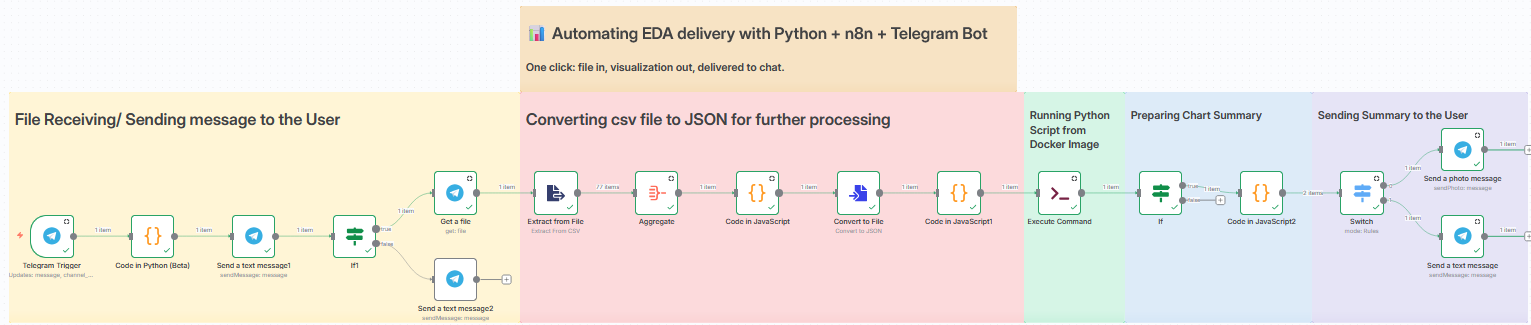
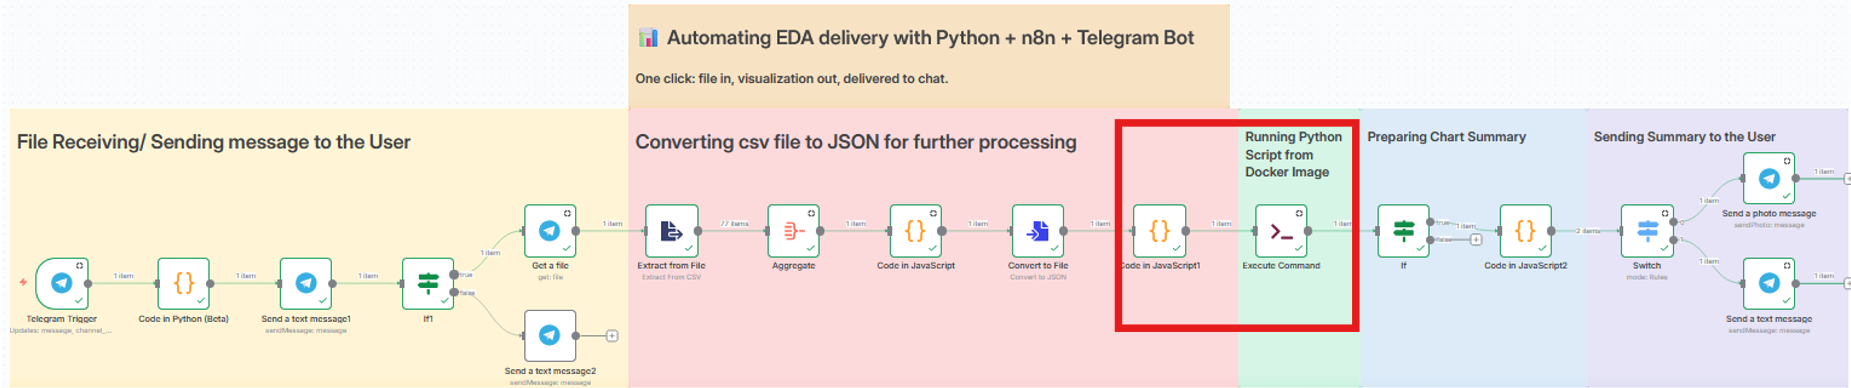
update workflow.png and readme.md

diff --git a/README.md b/README.md
@@ -53,7 +53,7 @@ Check out the workflow in action:
 https://github.com/user-attachments/assets/b51882dc-fb47-4580-90b0-0993bba4d8a9
 
 ---
-## How to create Custom Docker Image with Python Libraries for n8n ?
+## Guide on how to create Custom Docker Image with Python Libraries for n8n ?
 
 **Step 1:** Create Dockerfile. Use Dockerfile in this repo.
 
@@ -62,22 +62,24 @@ https://github.com/user-attachments/assets/b51882dc-fb47-4580-90b0-0993bba4d8a9
 **Step 3:** Watch this video, before running below code: https://www.youtube.com/watch?v=RvAD2__YYjg
 
 This video is the solution for the issue, you will encounter while running n8n via Docker. The error is "**Bad Request: bad webhook: An HTTPS URL must be provided for webhook**"
-```bash 
-docker compose up -d
-```
+   ```bash 
+   docker compose up -d
+   ```
 **Step 4:** Running Python Script in n8n.
 
- - **Step 4.1:** Add Code Node with Language selected as JavaScript, and add below code. This code will output the filepath where the JSON converted file is saved in n8n
+ - **Step 4.1:** Add "Code" Node with Language selected as JavaScript, and add below code. This code will output the filepath where the JSON converted file is saved in n8n. 
 
-```bash 
- return [{
-  filePath: `/home/node/.n8n/binaryData/${$binary.data.id.replace('filesystem-v2:', '')}`
-}];
-```
+    **Question** Where to add "Code" Node ? See Red box under Workflow Diagram.
+
+   ```bash 
+   return [{
+   filePath: `/home/node/.n8n/binaryData/${$binary.data.id.replace('filesystem-v2:', '')}`
+   }];
+   ```
  - **Step 4.2:** Add "Execute Command" node after the "Code" Node. Under "Command" property add below code. This Code passes the file path received from "Code" node to python script copied inside the Docker image.
 
- ```bash 
- python3 /tmp/n_test.py "{{$json.filePath}}"
-```
+   ```bash 
+   python3 /tmp/n_test.py "{{$json.filePath}}"
+   ```
 
 **Step 5:** All done!!
